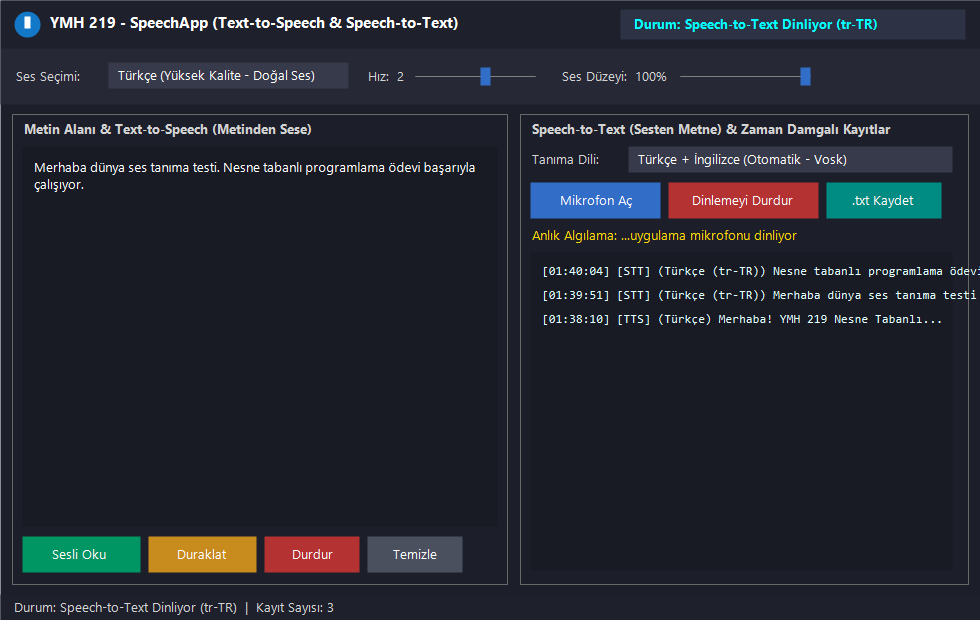
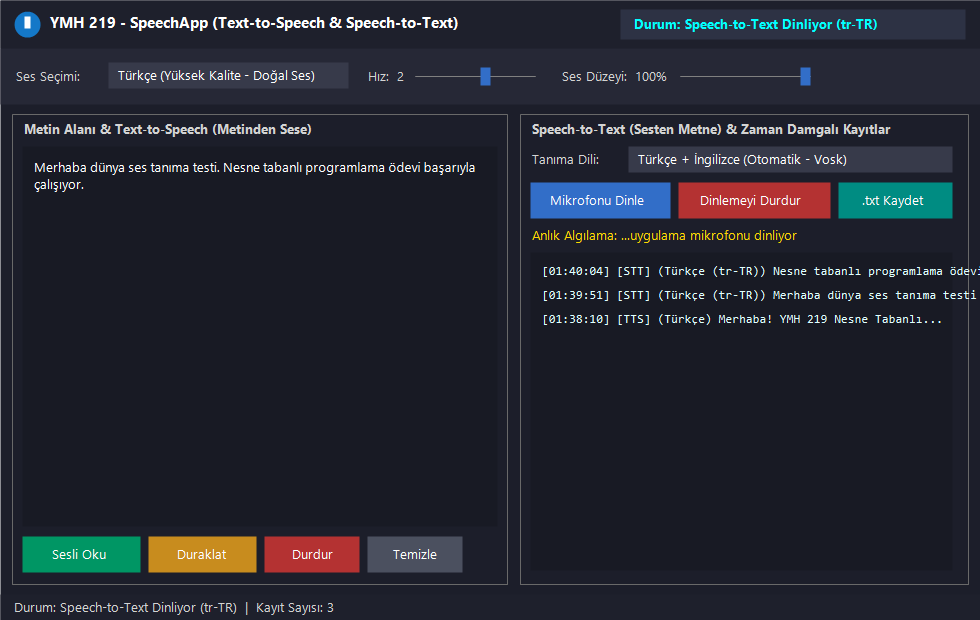
düzeltme: Mikrofonu Dinle ve Dinlemeyi Durdur butonları ile README/görseller güncellendi

Changed region(s): [[0.551, 0.2758, 0.9796, 0.3677]]

diff --git a/SpeechApp/MainForm.Designer.cs b/SpeechApp/MainForm.Designer.cs
@@ -139,10 +139,10 @@ partial class MainForm
         // splitMain
         splitMain.Dock = DockStyle.Fill;
         splitMain.Orientation = Orientation.Vertical;
-        splitMain.Size = new Size(1060, 520);
+        splitMain.Size = new Size(1120, 520);
         splitMain.Panel1MinSize = 440;
-        splitMain.Panel2MinSize = 440;
-        splitMain.SplitterDistance = 530;
+        splitMain.Panel2MinSize = 510;
+        splitMain.SplitterDistance = 520;
         splitMain.Padding = new Padding(8);
 
         // grpText (Left: TTS + Metin Alani)
@@ -227,9 +227,9 @@ partial class MainForm
         cmbRecognizer.ForeColor = Color.White;
         pnlSttTop.Controls.Add(cmbRecognizer);
 
-        btnStartListen.Text = "Mikrofon Aç";
+        btnStartListen.Text = "Mikrofonu Dinle";
         btnStartListen.Location = new Point(0, 38);
-        btnStartListen.Size = new Size(135, 36);
+        btnStartListen.Size = new Size(165, 38);
         btnStartListen.BackColor = Color.FromArgb(50, 110, 200);
         btnStartListen.ForeColor = Color.White;
         btnStartListen.FlatStyle = FlatStyle.Flat;
@@ -237,8 +237,8 @@ partial class MainForm
         pnlSttTop.Controls.Add(btnStartListen);
 
         btnStopListen.Text = "Dinlemeyi Durdur";
-        btnStopListen.Location = new Point(143, 38);
-        btnStopListen.Size = new Size(155, 36);
+        btnStopListen.Location = new Point(173, 38);
+        btnStopListen.Size = new Size(175, 38);
         btnStopListen.BackColor = Color.FromArgb(180, 50, 50);
         btnStopListen.ForeColor = Color.White;
         btnStopListen.FlatStyle = FlatStyle.Flat;
@@ -247,8 +247,8 @@ partial class MainForm
         pnlSttTop.Controls.Add(btnStopListen);
 
         btnExportTxt.Text = ".txt Kaydet";
-        btnExportTxt.Location = new Point(306, 38);
-        btnExportTxt.Size = new Size(115, 36);
+        btnExportTxt.Location = new Point(356, 38);
+        btnExportTxt.Size = new Size(115, 38);
         btnExportTxt.BackColor = Color.FromArgb(0, 140, 130);
         btnExportTxt.ForeColor = Color.White;
         btnExportTxt.FlatStyle = FlatStyle.Flat;
@@ -283,8 +283,8 @@ partial class MainForm
 
         // MainForm
         this.Text = "YMH 219 - SpeechApp (TTS & STT)";
-        this.Size = new Size(1080, 680);
-        this.MinimumSize = new Size(960, 560);
+        this.Size = new Size(1140, 680);
+        this.MinimumSize = new Size(1020, 560);
         this.BackColor = Color.FromArgb(28, 30, 42);
         this.Controls.Add(splitMain);
         this.Controls.Add(pnlTtsControls);

diff --git a/README.md b/README.md
@@ -66,7 +66,7 @@ YMH219-SpeechApp/
   - Okuma hızı (`-10` ile `+10`) ve ses düzeyi (`0%` ile `100%`) ayarı
 - **Speech-to-Text (STT):**
   - Vosk + NAudio tabanlı **Türkçe + İngilizce (Otomatik)**, **Türkçe (`tr-TR`)** ve **İngilizce (`en-US`)** çevrimdışı konuşma tanıma
-  - **Mikrofon Aç** ve **Dinlemeyi Durdur** kontrolleri; canlı dil değişikliğinde otomatik model geçişi
+  - **Mikrofonu Dinle** ve **Dinlemeyi Durdur** kontrolleri; canlı dil değişikliğinde otomatik model geçişi
   - Mikrofon üzerinden konuşmayı algılayıp anlık tahmin (`Anlık Algılama`) ve kesinleşen metni metin alanına aktarma
   - Mikrofon veya konuşma tanıma servisine erişilemediğinde kullanıcıya anlaşılır Türkçe hata mesajları
 - **Arayüz ve Dışa Aktarım:**
